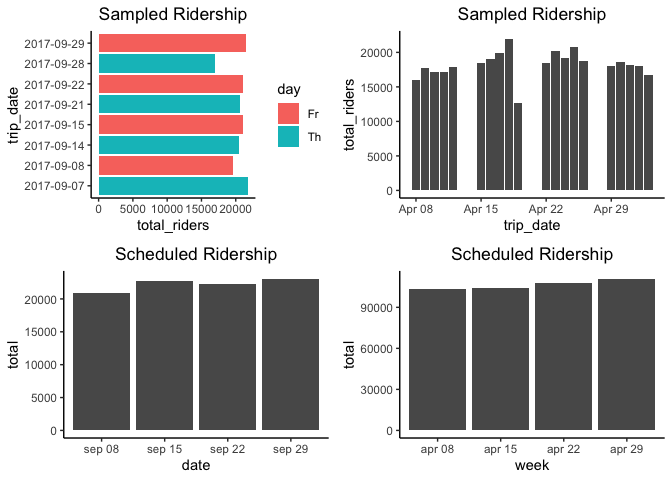
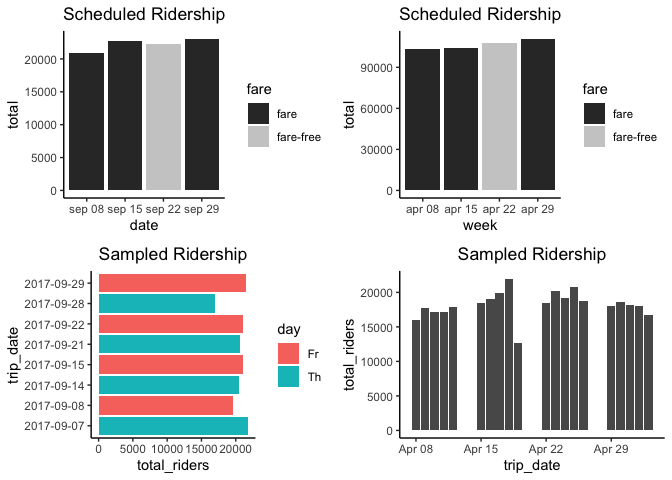
added daily ridership

diff --git a/triangle_fare_free_git.md b/triangle_fare_free_git.md
@@ -24,7 +24,7 @@ Triangle Bus Data Analysis
 
 ![](triangle_fare_free_git_files/figure-gfm/unnamed-chunk-4-1.png)<!-- -->
 
-![](triangle_fare_free_git_files/figure-gfm/unnamed-chunk-5-1.png)<!-- -->
+![](triangle_fare_free_git_files/figure-gfm/unnamed-chunk-7-1.png)<!-- -->
 
   - Ridership on Fridays of September does not vary from week to week
     and from Thursday to Friday
@@ -35,4 +35,4 @@ year
 
 ### 2\. Effect of COVID-19 on Ridership<a name="covid"></a>
 
-![](triangle_fare_free_git_files/figure-gfm/unnamed-chunk-7-1.png)<!-- -->
+![](triangle_fare_free_git_files/figure-gfm/unnamed-chunk-11-1.png)<!-- -->
